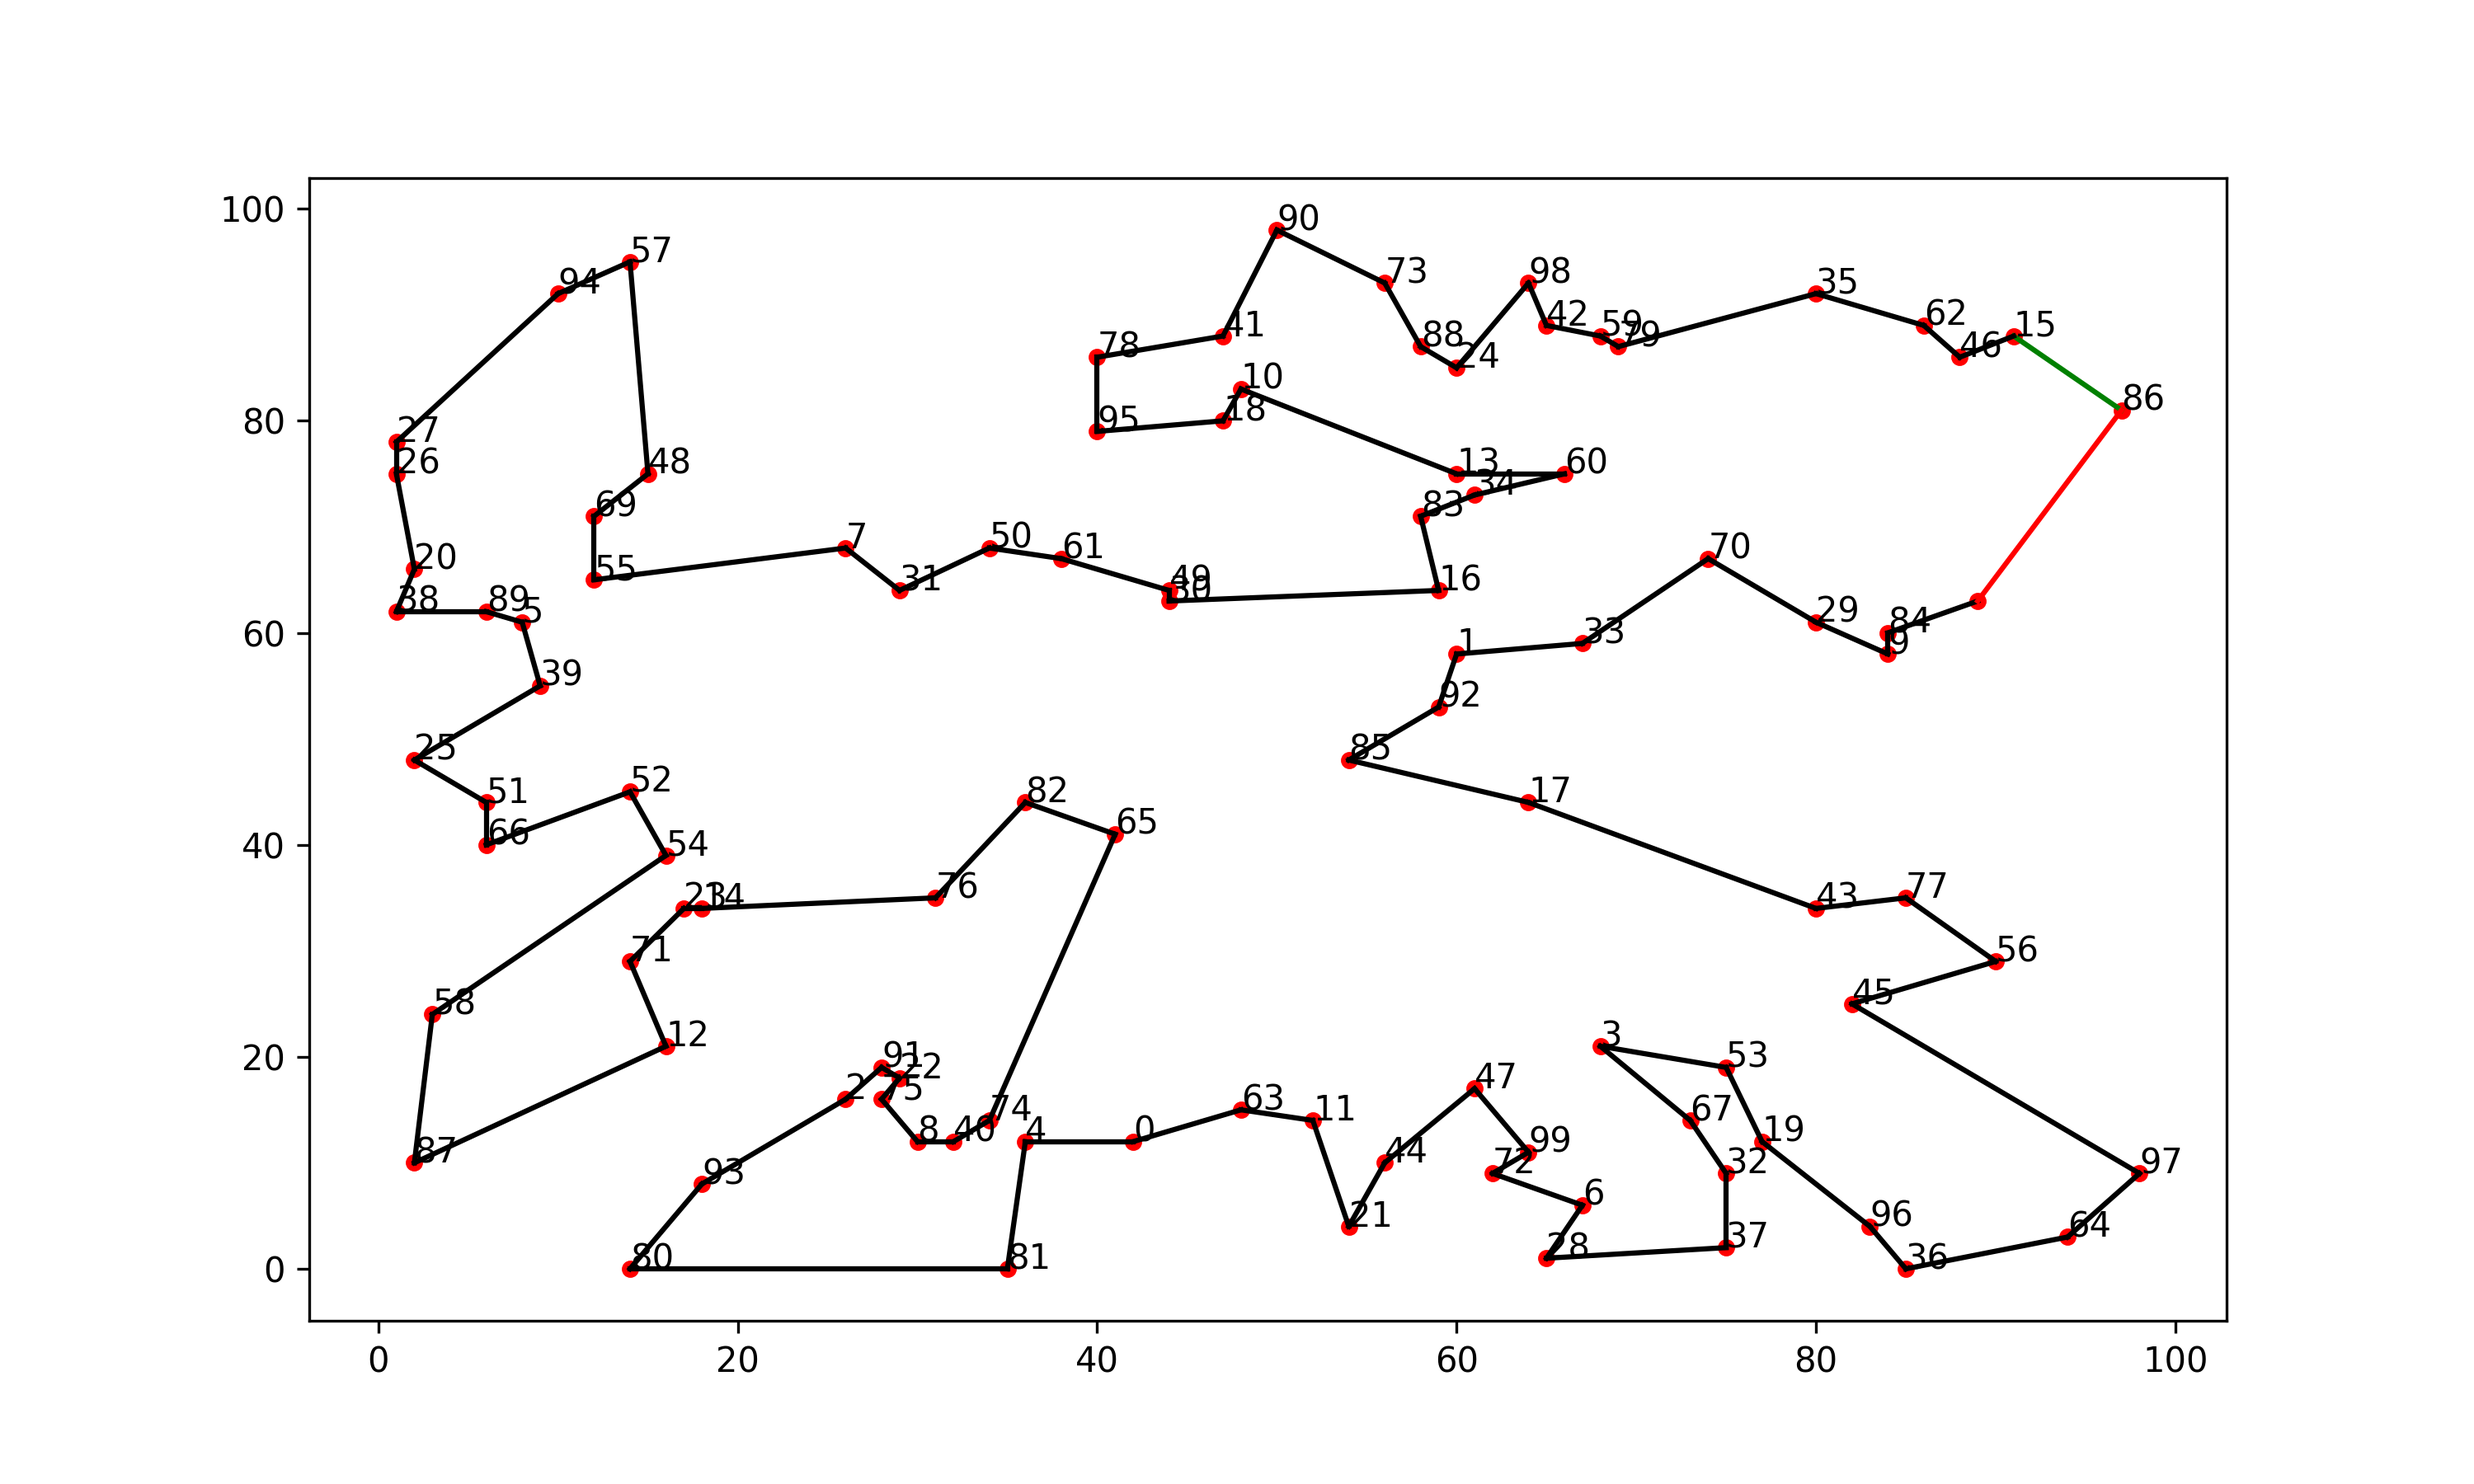
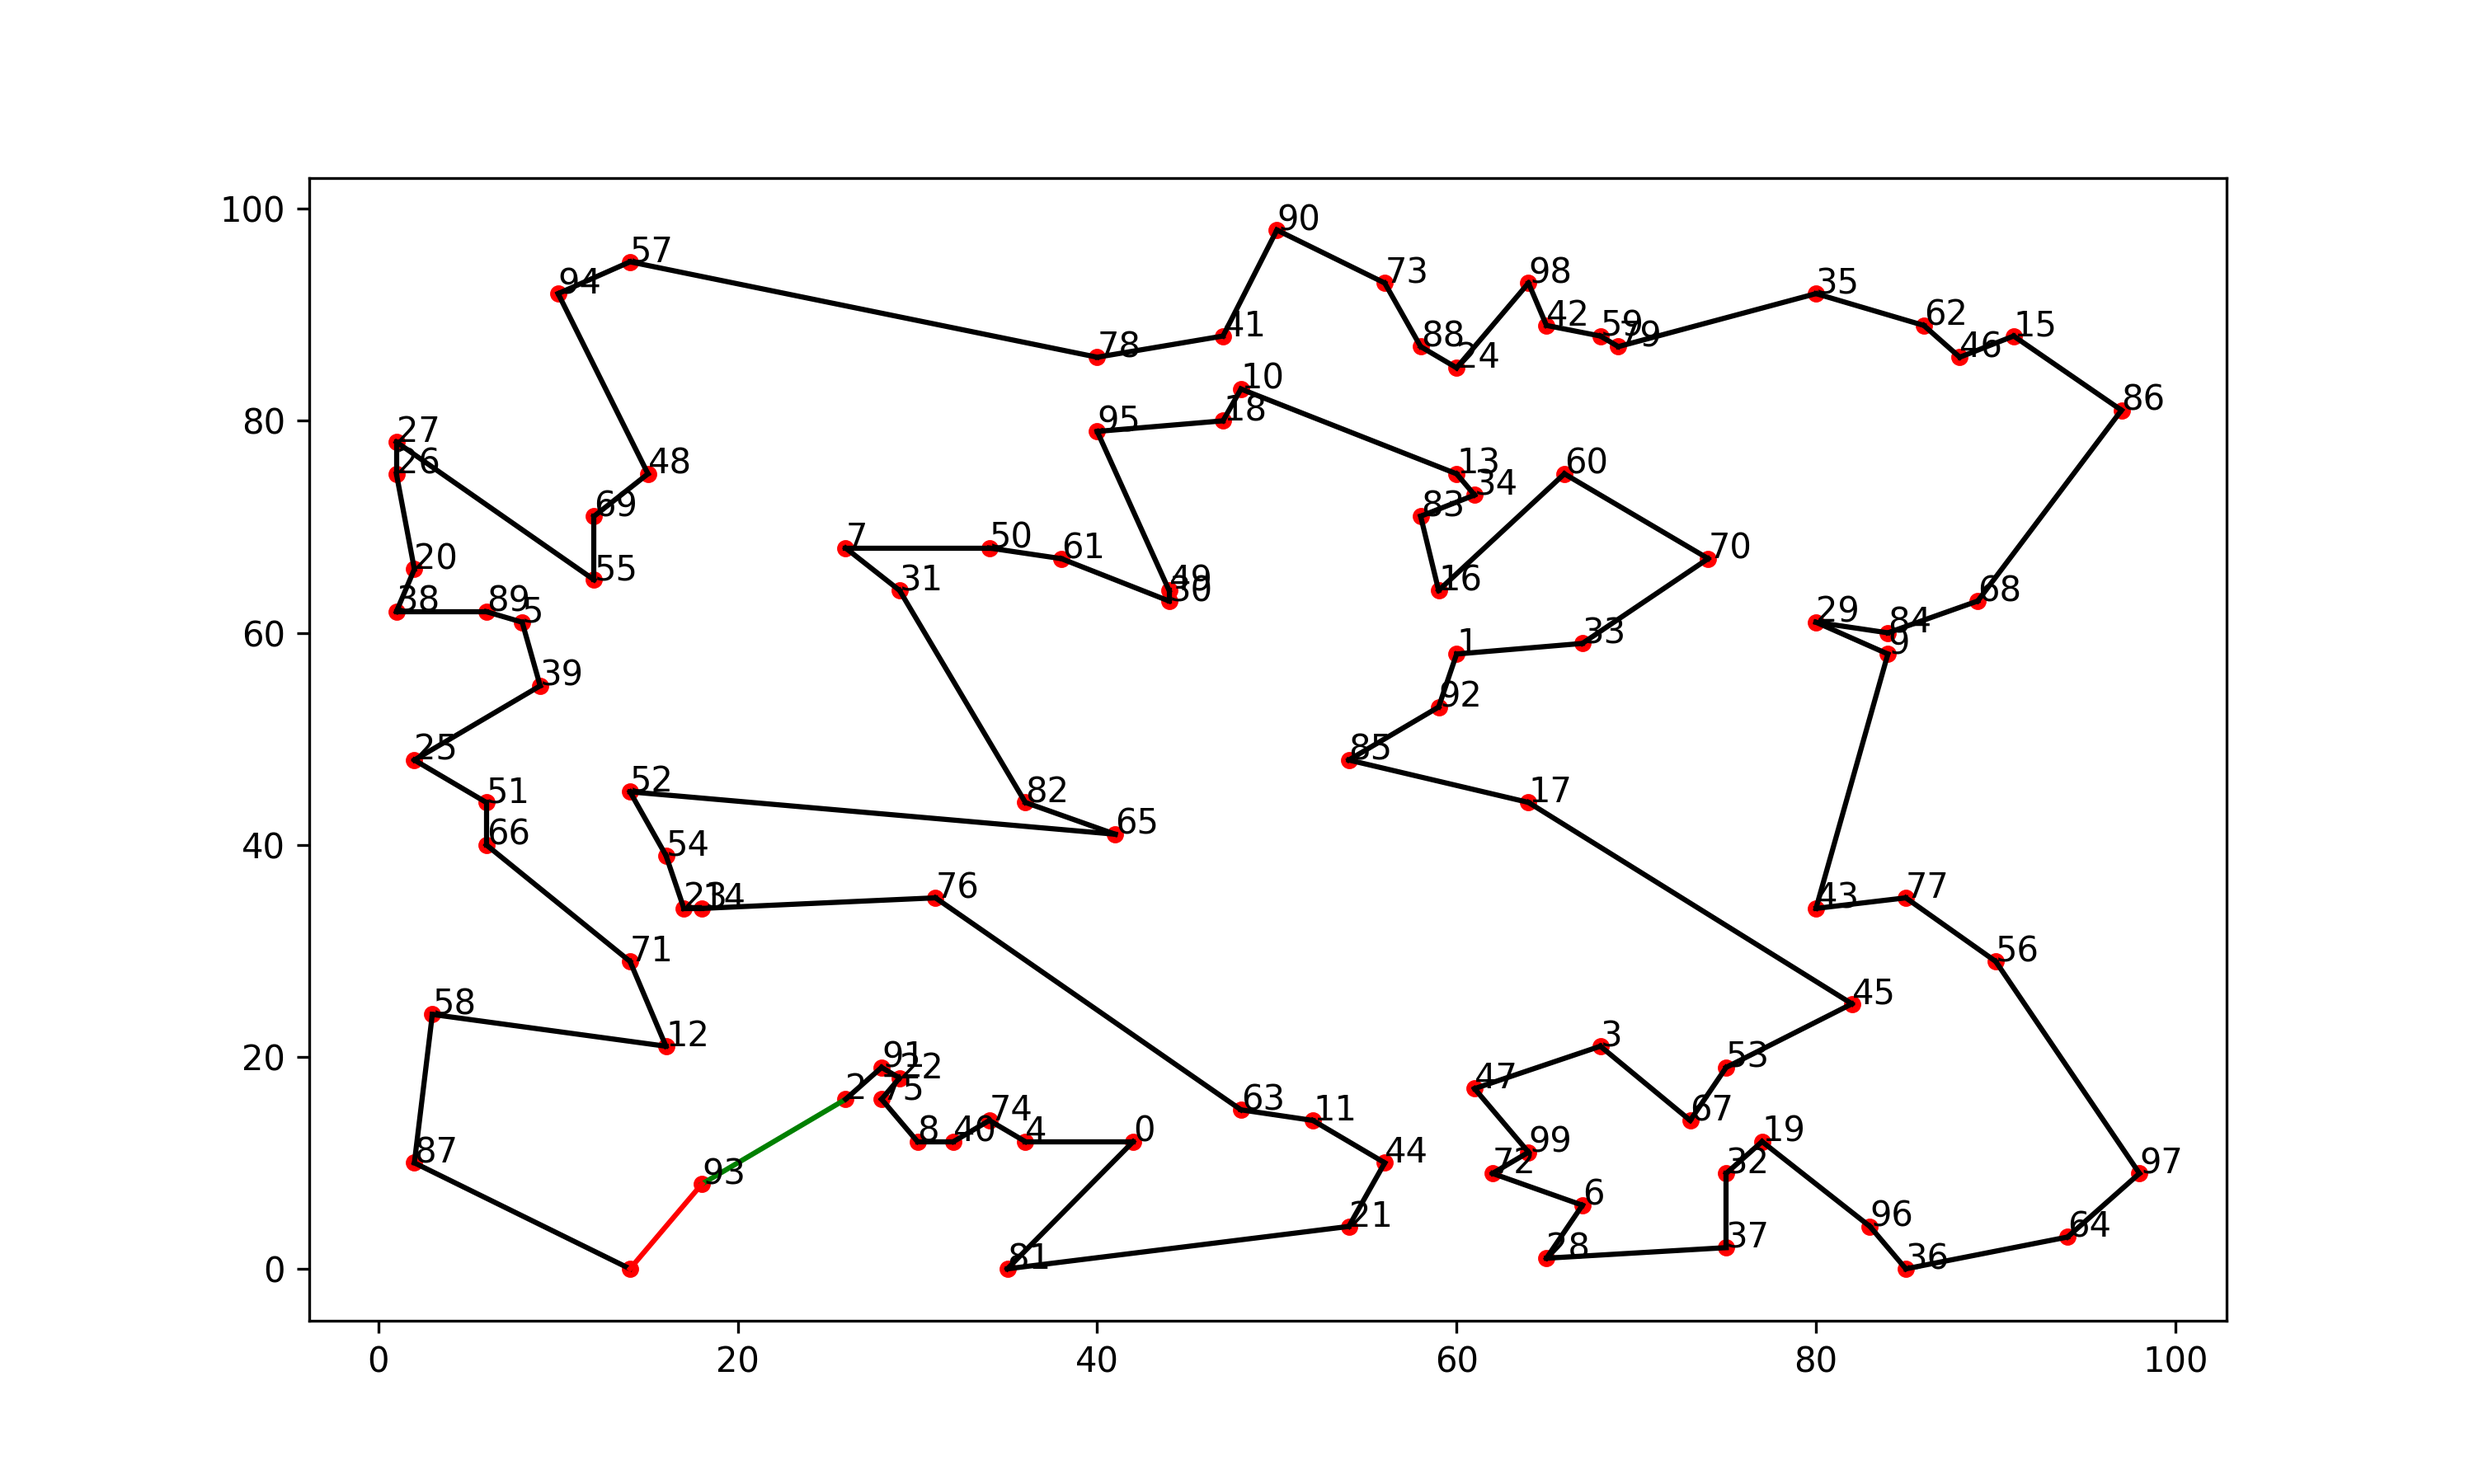
travelling salesman problem.

diff --git a/travelling_salesman_problem/main.py b/travelling_salesman_problem/main.py
@@ -14,44 +14,44 @@ def main():
     problem = TSP()
     cost_func = problem.cost_function
 
-    type_number_of_variables_ga = {"permutation1D": [len(model_data["locations_x"])]}
-    solution_method = GA(cost_function=cost_func,
-                         type_number_of_variables=type_number_of_variables_ga,
-                         max_iteration=2500,
-                         number_of_population=100,
-                         parents_selection_method="roulette_wheel_selection",
-                         selection_pressure_for_roulette_wheel=7,
-                         crossover_percentage=0.8,
-                         mutation_percentage=0.4,
-                         mutation_rate=0.02,
-                         plot_cost_function=True)
-
-    solution_best, run_time = solution_method.run()
-    tour(solution_best, model_data, "ga")
-
-
-    return solution_best, run_time
-
-    # type_number_of_variables_pso = {"real1D": [len(model_data["locations_x"])]}
-    # solution_method = PSO(cost_function=cost_func,
-    #                       type_number_of_variables=type_number_of_variables_pso,
-    #                       min_range_of_variables=0,
-    #                       max_range_of_variables=1,
-    #                       max_iteration=500,
-    #                       number_of_particles=200,
-    #                       inertia_rate=0.7298,
-    #                       inertia_damping_rate=1,
-    #                       personal_learning_rate=1.4962,
-    #                       global_learning_rate=1.4962,
-    #                       tempo_limit=True,
-    #                       plot_cost_function=True,
-    #                       mutation_for_real=True,
-    #                       mutation_for_permutation=True)
+    # type_number_of_variables_ga = {"permutation1D": [len(model_data["locations_x"])]}
+    # solution_method = GA(cost_function=cost_func,
+    #                      type_number_of_variables=type_number_of_variables_ga,
+    #                      max_iteration=2500,
+    #                      number_of_population=100,
+    #                      parents_selection_method="roulette_wheel_selection",
+    #                      selection_pressure_for_roulette_wheel=7,
+    #                      crossover_percentage=0.8,
+    #                      mutation_percentage=0.4,
+    #                      mutation_rate=0.02,
+    #                      plot_cost_function=True)
     #
     # solution_best, run_time = solution_method.run()
-    # tour(solution_best, model_data, "pso")
+    # tour(solution_best, model_data, "ga")
+    #
     #
     # return solution_best, run_time
+
+    type_number_of_variables_pso = {"real1D": [len(model_data["locations_x"])]}
+    solution_method = PSO(cost_function=cost_func,
+                          type_number_of_variables=type_number_of_variables_pso,
+                          min_range_of_variables=0,
+                          max_range_of_variables=1,
+                          max_iteration=200,
+                          number_of_particles=200,
+                          inertia_rate=0.7298,
+                          inertia_damping_rate=1,
+                          personal_learning_rate=1.4962,
+                          global_learning_rate=1.4962,
+                          tempo_limit=True,
+                          plot_cost_function=True,
+                          mutation_for_real=True,
+                          mutation_for_permutation=True)
+
+    solution_best, run_time = solution_method.run()
+    tour(solution_best, model_data, "pso")
+
+    return solution_best, run_time
 
 
 if __name__ == "__main__":
